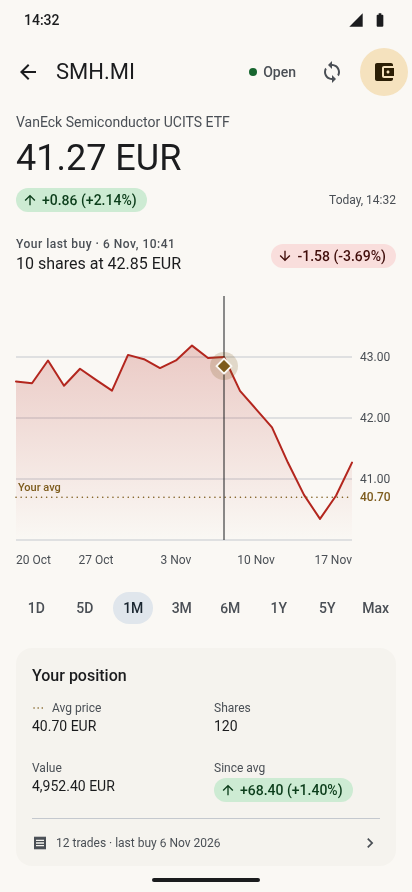
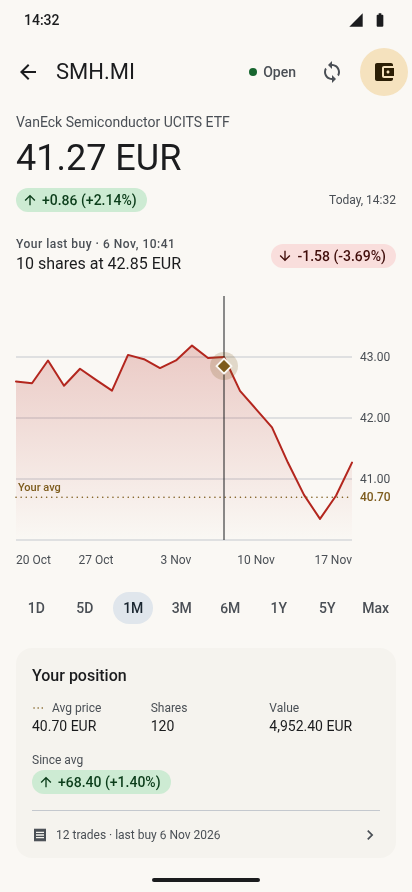
Sync the Doop snapshot with the built M3: the compact card is the default
PositionCard rev 11 defaults to layout=compact (decision 0047), so the M2 private frames now
show the compact card as the app does; their PNGs are re-rendered, the HTML is unchanged.
On the canvas the M3 frames moved to Screens, the M3 page was deleted and the rejected
worst-case frame moved to Exploration · Position. Roadmap: drop the done Doop to-do.

diff --git a/docs/design/doop/components/PositionCard.html b/docs/design/doop/components/PositionCard.html
@@ -1,5 +1,5 @@
 <!--
-  Component: PositionCard (Doop id ck5u26pzly, rev 10)
+  Component: PositionCard (Doop id ck5u26pzly, rev 11)
   Details screen, under the range bar: the owner's position in the ticker (decisions 0040-0043, 0047). Wrap in a div
   with 16px side margins.
   Props: state empty|avg|avg-traded|private|private-avg|private-empty|sold-out = avg;
@@ -14,9 +14,9 @@
          sold-out (M3, decision 0043) = trades exist and 0 shares are held: "No shares held", the ticker's realized
            total under "Realized (gross)", and the footer. No average, value or "Since avg". Private only: in public
            the card is hidden.
-         layout regular|compact = regular, private state only (M3, decision 0047): compact puts avg, shares and value
-           in one row of three, then "Since avg" and "Realized (gross)" side by side, 16dp between rows; regular is the
-           M2 2x2 grid. The M3 frames use compact; it becomes the default when M3 merges.
+         layout regular|compact = compact, private state only (decision 0047, default since M3 merged on 2026-11-23):
+           compact puts avg, shares and value in one row of three, then "Since avg" and "Realized (gross)" side by
+           side, 16dp between rows; regular is the replaced M2 2x2 grid, kept only for comparison frames.
          realized hidden|shown = hidden, private state only (M3): shown adds "Realized (gross)" when the ticker has at
            least one sell (sold-out always shows it).
          avg, shares, value: text with currency ("40.70 EUR", "120", "4,952.40 EUR"); lastbuy: footer text.
@@ -25,7 +25,7 @@
   The edit pencil (48dp touch target) opens the edit sheet; the dotted swatch before "Avg price" matches the chart line.
   Values wrap, never cut (no ellipsis), so large font sizes stay readable (frames/position-card-font-130).
 -->
-<section class="poc" data-state="avg" data-layout="regular" data-realized="hidden" aria-label="Your position" style="padding:var(--spacing-xs) var(--spacing-md) 0;border-radius:var(--radius-lg);background:var(--color-surface-container-low);font-family:var(--font-sans);color:var(--color-on-surface);"><div style="display:flex;align-items:center;justify-content:space-between;height:var(--spacing-touch);"><h2 style="font-size:var(--text-title-medium);line-height:var(--leading-title-medium);font-weight:var(--font-weight-medium);">Your position</h2><span class="poc-edit" aria-label="Edit position" style="width:48px;height:48px;margin-right:-12px;align-items:center;justify-content:center;color:var(--color-on-surface-variant);"><svg width="24" height="24" viewBox="0 0 24 24" fill="currentColor"><path d="M3 17.25V21h3.75L17.81 9.94l-3.75-3.75L3 17.25zM20.71 7.04a1 1 0 0 0 0-1.41l-2.34-2.34a1 1 0 0 0-1.41 0l-1.83 1.83 3.75 3.75 1.83-1.83z"></path></svg></span></div><p class="poc-empty" style="font-size:var(--text-body-medium);line-height:var(--leading-body-medium);color:var(--color-on-surface-variant);">Own this? Add the average price from your broker to see it on the chart.</p><p class="poc-empty-private" style="font-size:var(--text-body-medium);line-height:var(--leading-body-medium);color:var(--color-on-surface-variant);">Own this? Add your trades, or just the average price from your broker.</p><p class="poc-none" style="margin-bottom:var(--spacing-md);font-size:var(--text-body-medium);line-height:var(--leading-body-medium);color:var(--color-on-surface-variant);">No shares held</p><div class="poc-add" style="margin:var(--spacing-xs) 0 0 -12px;padding-bottom:var(--spacing-sm);"><doop-use component="Button" label="Add average price" tone="text"></doop-use></div><dl class="poc-grid" style="font-variant-numeric:tabular-nums;"><div class="poc-avg" style="grid-area:avg;"><dt style="font-size:var(--text-body-small);line-height:var(--leading-body-small);color:var(--color-on-surface-variant);display:flex;align-items:center;gap:6px;"><svg width="14" height="4" viewBox="0 0 14 4"><line x1="2" y1="2" x2="13" y2="2" stroke="var(--color-tertiary)" stroke-width="1.5" stroke-dasharray="0.1 4" stroke-linecap="round"></line></svg>Avg price</dt><dd data-doop-prop="avg" style="font-size:var(--text-body-medium);line-height:var(--leading-body-medium);">40.70 EUR</dd></div><div class="poc-shares" style="grid-area:shares;"><dt style="font-size:var(--text-body-small);line-height:var(--leading-body-small);color:var(--color-on-surface-variant);">Shares</dt><dd data-doop-prop="shares" style="font-size:var(--text-body-medium);line-height:var(--leading-body-medium);">120</dd></div><div class="poc-value" style="grid-area:value;"><dt style="font-size:var(--text-body-small);line-height:var(--leading-body-small);color:var(--color-on-surface-variant);">Value</dt><dd data-doop-prop="value" style="font-size:var(--text-body-medium);line-height:var(--leading-body-medium);">4,952.40 EUR</dd></div><div class="poc-chg" style="grid-area:change;"><dt style="font-size:var(--text-body-small);line-height:var(--leading-body-small);color:var(--color-on-surface-variant);margin-bottom:2px;">Since avg</dt><dd data-doop-slot="change"></dd></div><div class="poc-real" style="grid-area:real;"><dt style="font-size:var(--text-body-small);line-height:var(--leading-body-small);color:var(--color-on-surface-variant);margin-bottom:2px;">Realized (gross)</dt><dd data-doop-slot="realized" data-doop-slot-suggest="ChangeBadge"></dd></div></dl><p class="poc-hint" style="margin-top:var(--spacing-md);font-size:var(--text-body-small);line-height:var(--leading-body-small);color:var(--color-on-surface-variant);">Add how many shares you own to see the value.</p><div class="poc-foot" style="margin-top:var(--spacing-md);border-top:1px solid var(--color-outline-variant);height:48px;align-items:center;gap:var(--spacing-sm);font-size:var(--text-body-small);line-height:var(--leading-body-small);color:var(--color-on-surface-variant);font-variant-numeric:tabular-nums;"><svg aria-hidden="true" width="16" height="16" viewBox="0 0 24 24" fill="currentColor"><path d="M18 17H6v-2h12v2zm0-4H6v-2h12v2zm0-4H6V7h12v2zM3 22l1.5-1.5L6 22l1.5-1.5L9 22l1.5-1.5L12 22l1.5-1.5L15 22l1.5-1.5L18 22l1.5-1.5L21 22V2l-1.5 1.5L18 2l-1.5 1.5L15 2l-1.5 1.5L12 2l-1.5 1.5L9 2 7.5 3.5 6 2 4.5 3.5 3 2v20z"></path></svg><span data-doop-prop="lastbuy" style="flex:1;">12 trades · last buy 20 Nov 2026</span><svg aria-hidden="true" width="20" height="20" viewBox="0 0 24 24" fill="currentColor"><path d="M10 6L8.59 7.41 13.17 12l-4.58 4.59L10 18l6-6z"></path></svg></div></section>
+<section class="poc" data-state="avg" data-layout="compact" data-realized="hidden" aria-label="Your position" style="padding:var(--spacing-xs) var(--spacing-md) 0;border-radius:var(--radius-lg);background:var(--color-surface-container-low);font-family:var(--font-sans);color:var(--color-on-surface);"><div style="display:flex;align-items:center;justify-content:space-between;height:var(--spacing-touch);"><h2 style="font-size:var(--text-title-medium);line-height:var(--leading-title-medium);font-weight:var(--font-weight-medium);">Your position</h2><span class="poc-edit" aria-label="Edit position" style="width:48px;height:48px;margin-right:-12px;align-items:center;justify-content:center;color:var(--color-on-surface-variant);"><svg width="24" height="24" viewBox="0 0 24 24" fill="currentColor"><path d="M3 17.25V21h3.75L17.81 9.94l-3.75-3.75L3 17.25zM20.71 7.04a1 1 0 0 0 0-1.41l-2.34-2.34a1 1 0 0 0-1.41 0l-1.83 1.83 3.75 3.75 1.83-1.83z"></path></svg></span></div><p class="poc-empty" style="font-size:var(--text-body-medium);line-height:var(--leading-body-medium);color:var(--color-on-surface-variant);">Own this? Add the average price from your broker to see it on the chart.</p><p class="poc-empty-private" style="font-size:var(--text-body-medium);line-height:var(--leading-body-medium);color:var(--color-on-surface-variant);">Own this? Add your trades, or just the average price from your broker.</p><p class="poc-none" style="margin-bottom:var(--spacing-md);font-size:var(--text-body-medium);line-height:var(--leading-body-medium);color:var(--color-on-surface-variant);">No shares held</p><div class="poc-add" style="margin:var(--spacing-xs) 0 0 -12px;padding-bottom:var(--spacing-sm);"><doop-use component="Button" label="Add average price" tone="text"></doop-use></div><dl class="poc-grid" style="font-variant-numeric:tabular-nums;"><div class="poc-avg" style="grid-area:avg;"><dt style="font-size:var(--text-body-small);line-height:var(--leading-body-small);color:var(--color-on-surface-variant);display:flex;align-items:center;gap:6px;"><svg width="14" height="4" viewBox="0 0 14 4"><line x1="2" y1="2" x2="13" y2="2" stroke="var(--color-tertiary)" stroke-width="1.5" stroke-dasharray="0.1 4" stroke-linecap="round"></line></svg>Avg price</dt><dd data-doop-prop="avg" style="font-size:var(--text-body-medium);line-height:var(--leading-body-medium);">40.70 EUR</dd></div><div class="poc-shares" style="grid-area:shares;"><dt style="font-size:var(--text-body-small);line-height:var(--leading-body-small);color:var(--color-on-surface-variant);">Shares</dt><dd data-doop-prop="shares" style="font-size:var(--text-body-medium);line-height:var(--leading-body-medium);">120</dd></div><div class="poc-value" style="grid-area:value;"><dt style="font-size:var(--text-body-small);line-height:var(--leading-body-small);color:var(--color-on-surface-variant);">Value</dt><dd data-doop-prop="value" style="font-size:var(--text-body-medium);line-height:var(--leading-body-medium);">4,952.40 EUR</dd></div><div class="poc-chg" style="grid-area:change;"><dt style="font-size:var(--text-body-small);line-height:var(--leading-body-small);color:var(--color-on-surface-variant);margin-bottom:2px;">Since avg</dt><dd data-doop-slot="change"></dd></div><div class="poc-real" style="grid-area:real;"><dt style="font-size:var(--text-body-small);line-height:var(--leading-body-small);color:var(--color-on-surface-variant);margin-bottom:2px;">Realized (gross)</dt><dd data-doop-slot="realized" data-doop-slot-suggest="ChangeBadge"></dd></div></dl><p class="poc-hint" style="margin-top:var(--spacing-md);font-size:var(--text-body-small);line-height:var(--leading-body-small);color:var(--color-on-surface-variant);">Add how many shares you own to see the value.</p><div class="poc-foot" style="margin-top:var(--spacing-md);border-top:1px solid var(--color-outline-variant);height:48px;align-items:center;gap:var(--spacing-sm);font-size:var(--text-body-small);line-height:var(--leading-body-small);color:var(--color-on-surface-variant);font-variant-numeric:tabular-nums;"><svg aria-hidden="true" width="16" height="16" viewBox="0 0 24 24" fill="currentColor"><path d="M18 17H6v-2h12v2zm0-4H6v-2h12v2zm0-4H6V7h12v2zM3 22l1.5-1.5L6 22l1.5-1.5L9 22l1.5-1.5L12 22l1.5-1.5L15 22l1.5-1.5L18 22l1.5-1.5L21 22V2l-1.5 1.5L18 2l-1.5 1.5L15 2l-1.5 1.5L12 2l-1.5 1.5L9 2 7.5 3.5 6 2 4.5 3.5 3 2v20z"></path></svg><span data-doop-prop="lastbuy" style="flex:1;">12 trades · last buy 20 Nov 2026</span><svg aria-hidden="true" width="20" height="20" viewBox="0 0 24 24" fill="currentColor"><path d="M10 6L8.59 7.41 13.17 12l-4.58 4.59L10 18l6-6z"></path></svg></div></section>
 <style>
 .poc h2, .poc p, .poc dl, .poc dd { margin: 0; }
 .poc .poc-edit { display: flex; }

diff --git a/docs/design/doop/frames/position-card-font-130.html b/docs/design/doop/frames/position-card-font-130.html
@@ -15,8 +15,8 @@
 <div style="--text-body-medium:18.2px;--leading-body-medium:26px;--text-body-small:15.6px;--leading-body-small:20.8px;--text-title-medium:20.8px;--leading-title-medium:31.2px;--text-label-large:18.2px;--leading-label-large:26px;--text-label-medium:15.6px;--leading-label-medium:20.8px;"><doop-use component="PositionCard" state="private" layout="compact" realized="shown" avg="40.70 EUR" shares="1,250.5" value="51,608.14 EUR" lastbuy="38 trades · last buy 6 Nov 2026"><template slot="change"><doop-use component="ChangeBadge" direction="up" value="+712.79 (+1.40%)"></doop-use></template><template slot="realized"><doop-use component="ChangeBadge" direction="down" value="-1,240.55 (-12.85%)"></doop-use></template></doop-use></div>
 </div>
 <div class="col">
-<p class="colhead">Regular 2 × 2 at 130% (today's card)</p>
+<p class="colhead">Regular 2 × 2 at 130% (the M2 card, replaced)</p>
 <p class="cap">The Since avg pill already wraps here in the M2 card. Taller; the screen scrolls.</p>
-<div style="--text-body-medium:18.2px;--leading-body-medium:26px;--text-body-small:15.6px;--leading-body-small:20.8px;--text-title-medium:20.8px;--leading-title-medium:31.2px;--text-label-large:18.2px;--leading-label-large:26px;--text-label-medium:15.6px;--leading-label-medium:20.8px;"><doop-use component="PositionCard" state="private" realized="shown" avg="40.70 EUR" shares="1,250.5" value="51,608.14 EUR" lastbuy="38 trades · last buy 6 Nov 2026"><template slot="change"><doop-use component="ChangeBadge" direction="up" value="+712.79 (+1.40%)"></doop-use></template><template slot="realized"><doop-use component="ChangeBadge" direction="down" value="-1,240.55 (-12.85%)"></doop-use></template></doop-use></div>
+<div style="--text-body-medium:18.2px;--leading-body-medium:26px;--text-body-small:15.6px;--leading-body-small:20.8px;--text-title-medium:20.8px;--leading-title-medium:31.2px;--text-label-large:18.2px;--leading-label-large:26px;--text-label-medium:15.6px;--leading-label-medium:20.8px;"><doop-use component="PositionCard" state="private" layout="regular" realized="shown" avg="40.70 EUR" shares="1,250.5" value="51,608.14 EUR" lastbuy="38 trades · last buy 6 Nov 2026"><template slot="change"><doop-use component="ChangeBadge" direction="up" value="+712.79 (+1.40%)"></doop-use></template><template slot="realized"><doop-use component="ChangeBadge" direction="down" value="-1,240.55 (-12.85%)"></doop-use></template></doop-use></div>
 </div>
 </body></html>

diff --git a/docs/design/doop/SNAPSHOT.md b/docs/design/doop/SNAPSHOT.md
@@ -88,14 +88,17 @@ deleted from the canvas.
 
 M3, realized gains (decisions 0043 and 0047, 2026-11-23): page "M3 · Realized gains". All eight M3 frames are marked
 ready for dev, signed off by the owner on 2026-11-23. `PositionCard` is rev 10: state `sold-out`, prop `realized`
-(hidden|shown) with a `realized` slot, and prop `layout` (regular|compact). The M3 frames set `layout="compact"`; the
-"Screens" frames keep `regular`, the M2 card as built, until M3 merges and compact becomes the default. `TradeRow` is
+(hidden|shown) with a `realized` slot, and prop `layout` (regular|compact). M3 merged on 2026-11-23 (rev 11): compact is
+the default, so every private card in the frames is compact, and the M2 private frames' PNGs were re-rendered
+(their HTML is unchanged); only `position-card-font-130` keeps a `layout="regular"` card, for comparison. The M3 frames
+moved to the "Screens" page and the M3 page was deleted. Change amounts from 10,000 up drop the decimals (decision
+0048); no frame shows one. `TradeRow` is
 rev 3: prop `realized` (off|on) and a `realized` slot, which replace the amount on sell rows. The example history is
 self-consistent (weighted average, replayed): 95 shares at 36.72 EUR, realized +139.76; sold out, +631.60.
 `details-private-worst-case-compact` uses stress values (1,250.5 shares, 51,608.14 EUR) on the 1M chart of the M2 frame.
 `position-card-font-130` is a reference board: the wrappers scale the text tokens by 1.3 to simulate the system font
-size. The rejected frame (worst case with the regular layout, the footer below the screen) stays on the canvas, not
-exported. The M3 frame HTML was written from the markup sent to Doop and from the M2 snapshot frames it edits.
+size. The rejected frame (worst case with the regular layout, the footer below the screen) moved to "Exploration ·
+Position", not exported. The M3 frame HTML was written from the markup sent to Doop and from the M2 snapshot frames it edits.
 
 ## Tokens and components
 

diff --git a/docs/roadmap.md b/docs/roadmap.md
@@ -60,8 +60,7 @@ Portfolio track (decision 0040): one branch per milestone, from main
   sell rows, sold-out card and summary, sell sheet preview), built and merged into main 2026-11-23 (no schema change;
   change amounts from 10,000 up without decimals: decision 0048). Ships in the next release. Checked on the emulator
   2026-11-23 (compact card with and without sells, 5-figure gains, sold out private and public, sell rows, sold-out
-  summary, sell sheet preview, Italian at 200% font); untested: TalkBack, dark theme on the new card states. To do in
-  Doop: make the compact card the default and re-export the "Screens" frames.
+  summary, sell sheet preview, Italian at 200% font); untested: TalkBack, dark theme on the new card states.
 - M4, portfolio overview: totals and allocation across tickers.
 
 Later (v2 candidates, not in v1 scope)
